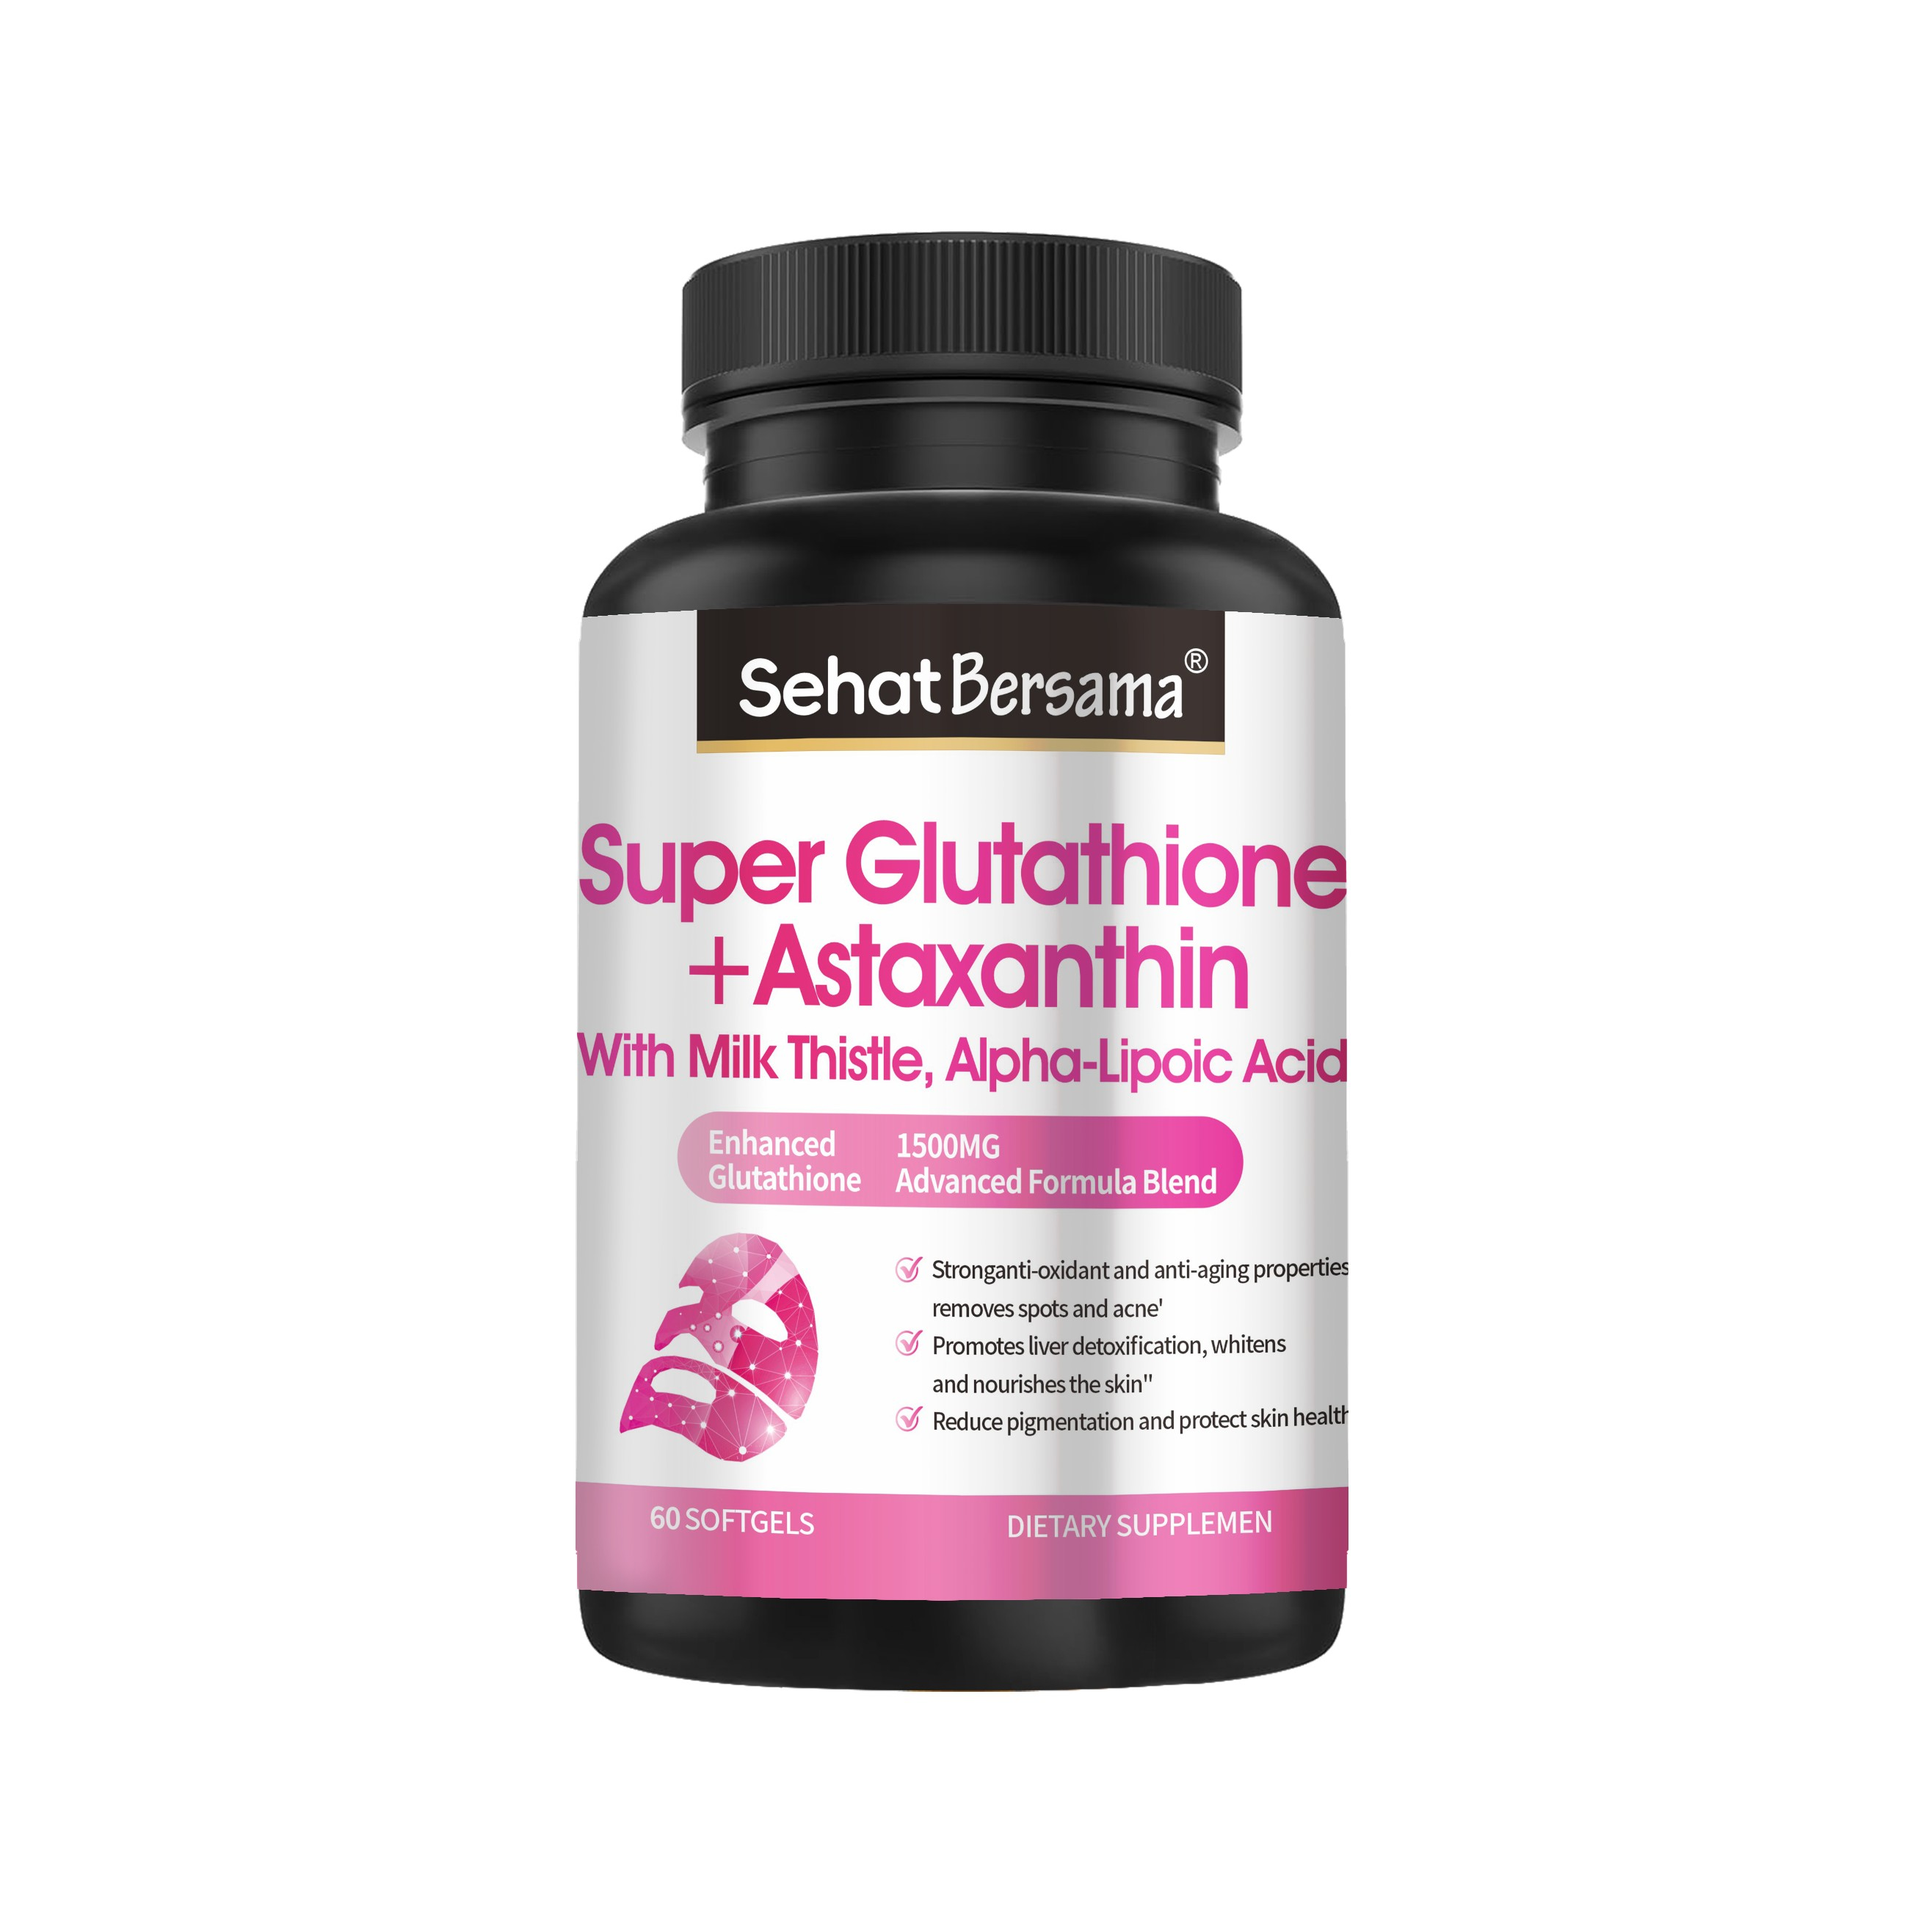
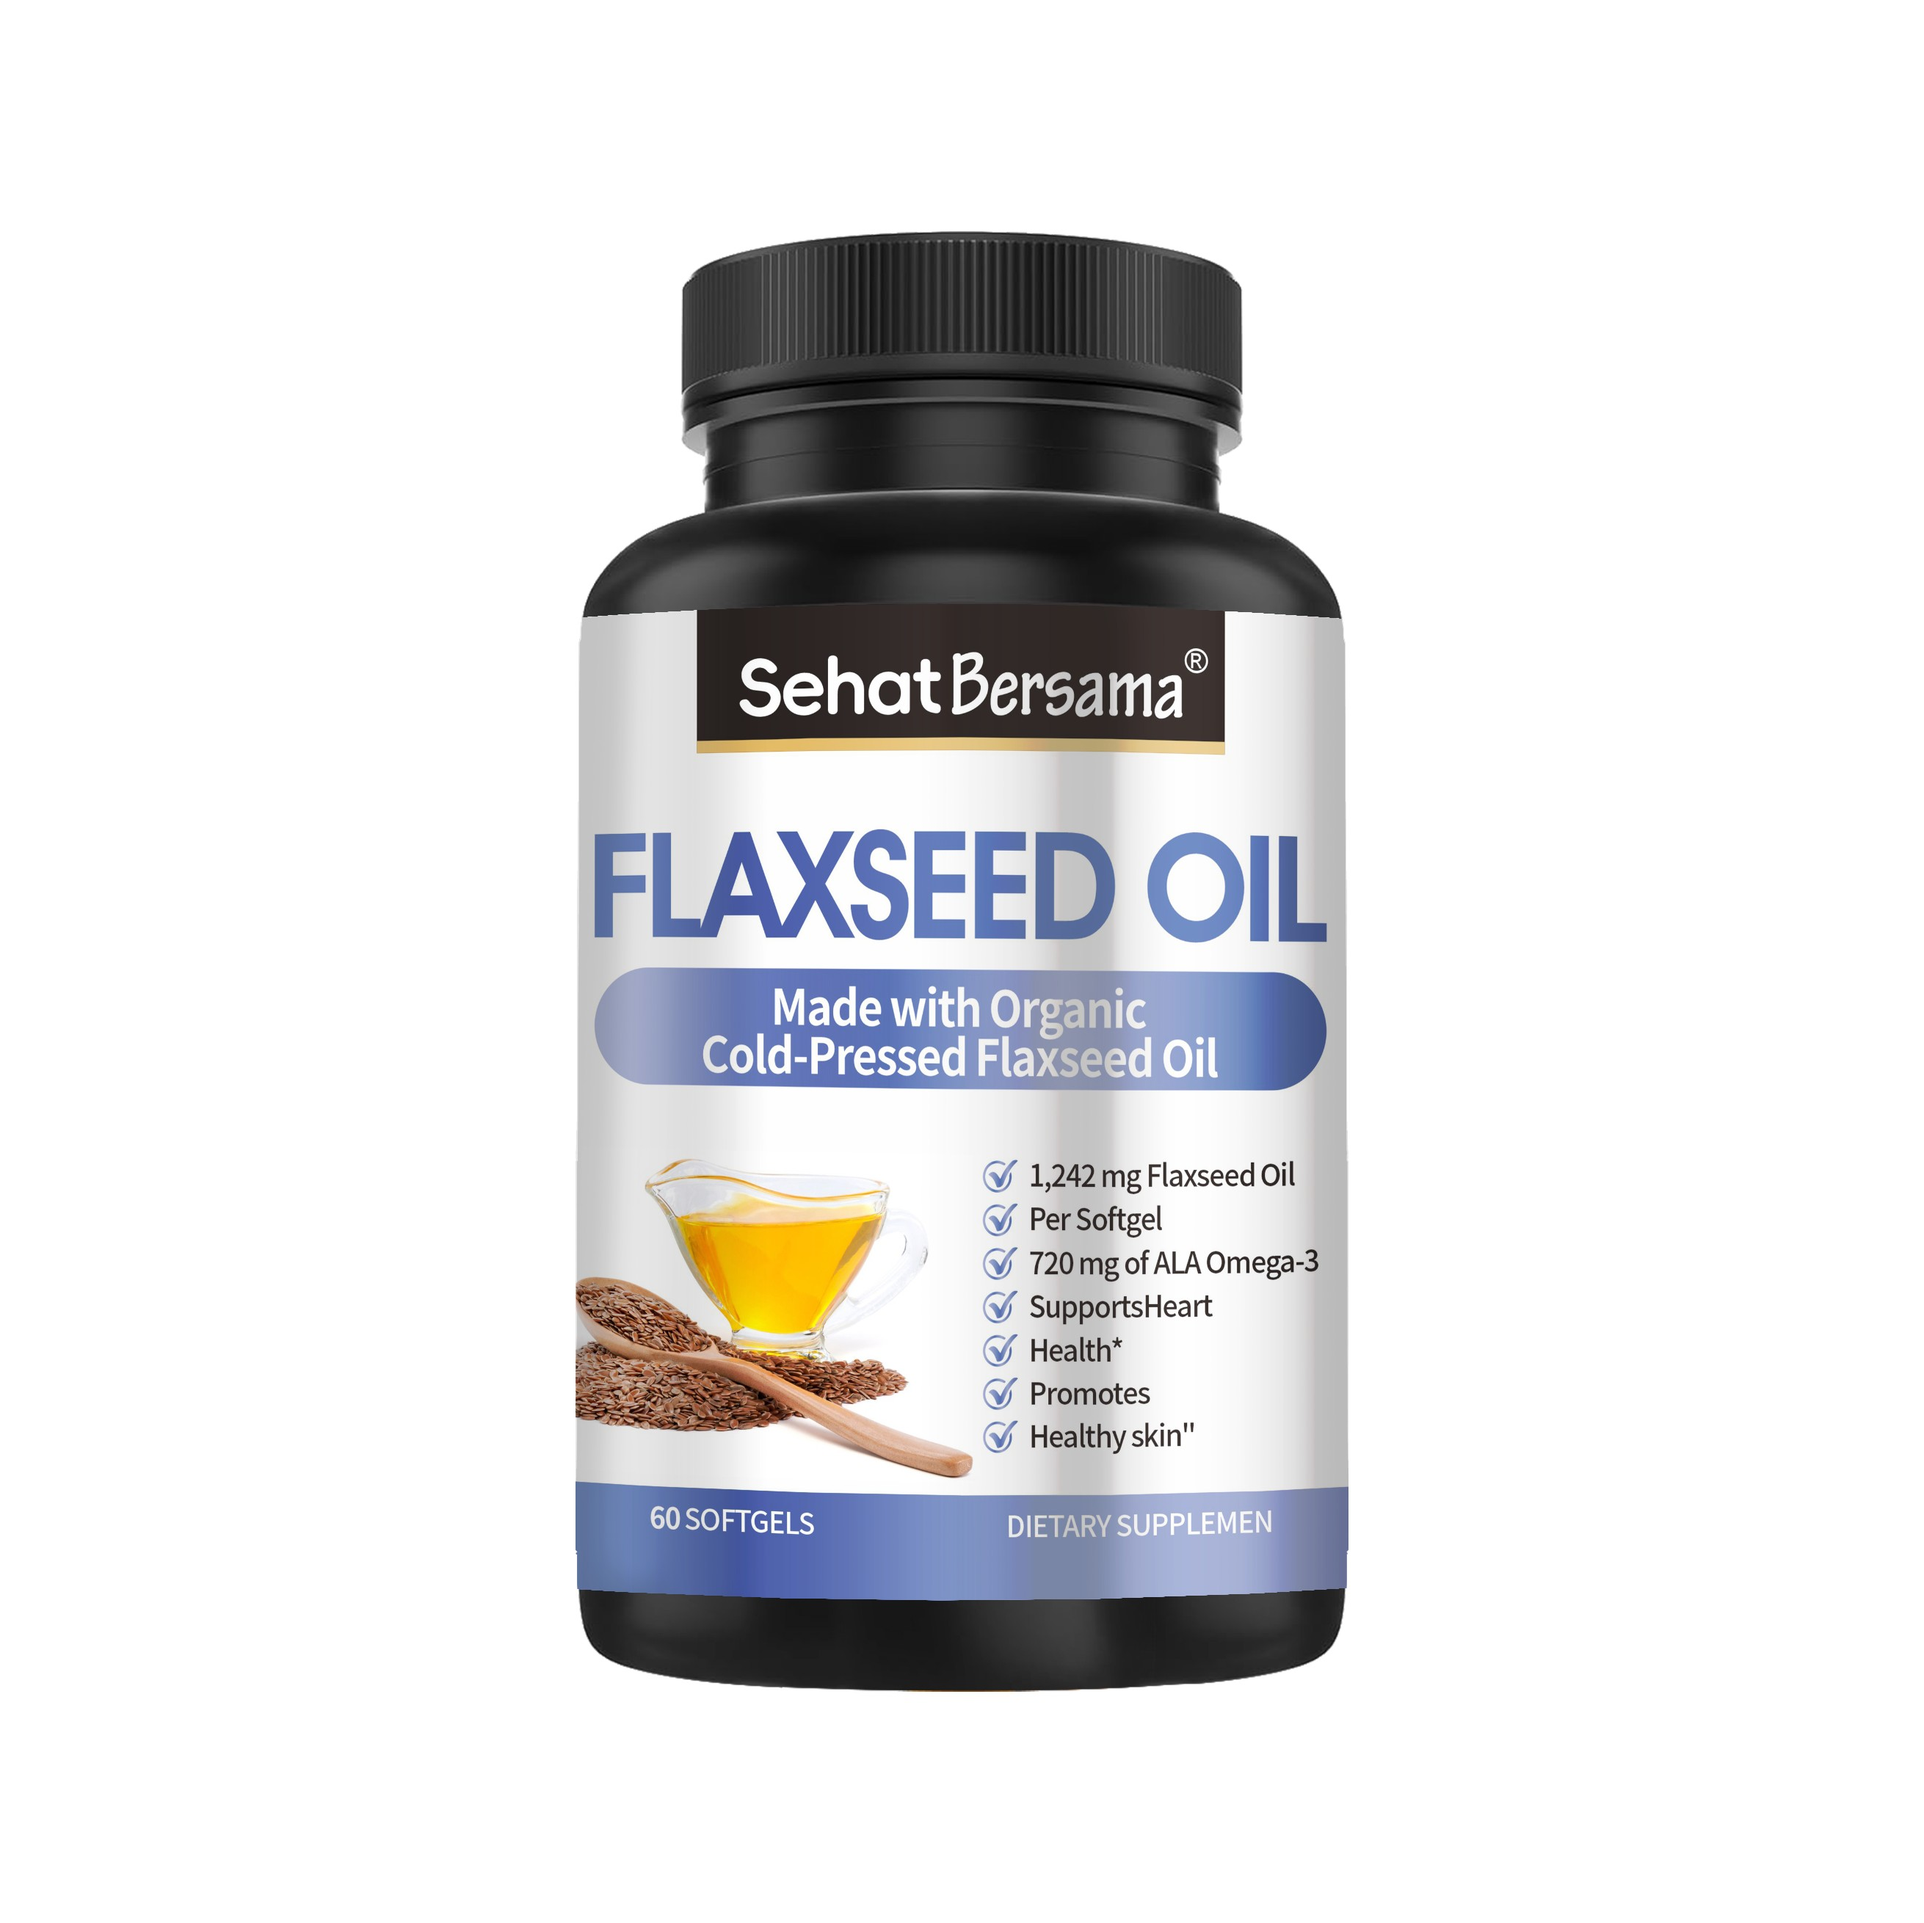
Add files via upload

Changed region(s): [[0.2781, 0.4019, 0.7108, 0.8347]]

diff --git a/LS202512001.html b/LS202512001.html
@@ -171,7 +171,7 @@
                 </tr>
                 <tr>
                     <td>Product name</td>
-                    <td>Super Glutathione+Astaxanthin</td>
+                    <td>FLAXSEED OIL</td>
                 </tr>
                 <tr>
                     <td>Brand</td>
